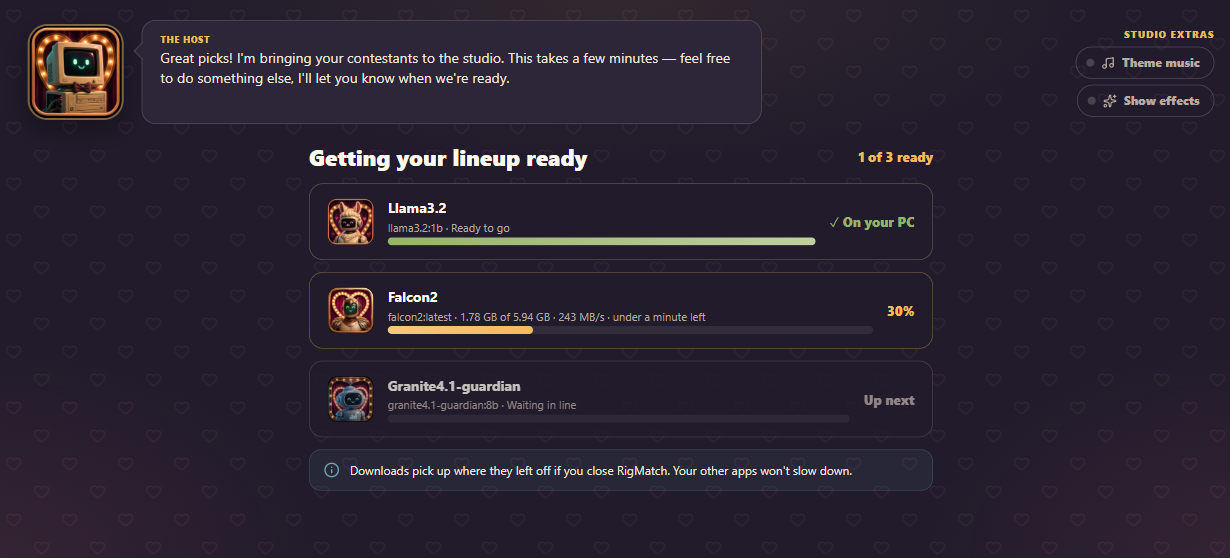
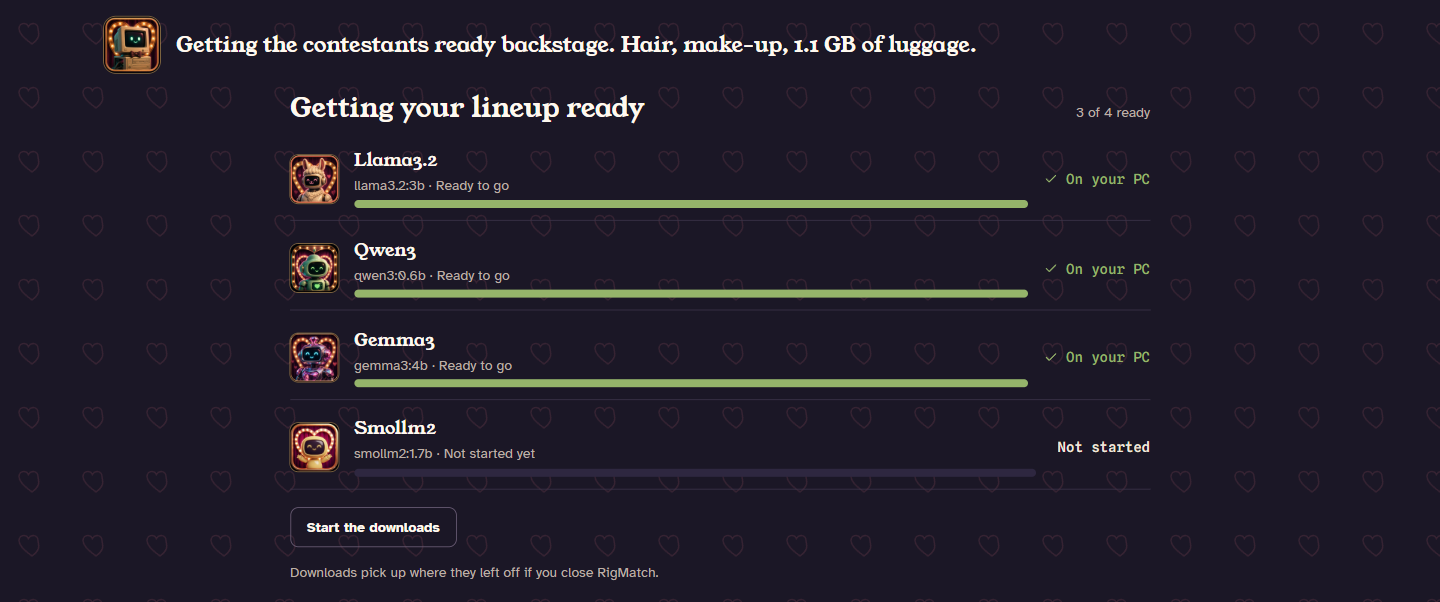
Retake the Download step screenshot
Taken with one model not yet installed: the consent step was declined,
so the row reads "Not started yet" and nothing was downloaded.

diff --git a/README.md b/README.md
@@ -61,7 +61,7 @@ Choose what you want a model for (Chat, Writing, Code, Reads pictures, Listens, 
 
 RigMatch asks before it downloads anything, then shows live progress while your lineup installs. Stop anytime; downloads resume if you close the app. If every model in your lineup is already on your PC, this step is skipped.
 
-<p align="center"><img src="docs/images/03-download.png" alt="Download step — lineup install progress" width="100%"></p>
+<p align="center"><img src="docs/images/03-download.png" alt="Download step — three models already on the PC and one waiting to start" width="100%"></p>
 
 ### 4 · Show — Speed Dating, live on stage
 
